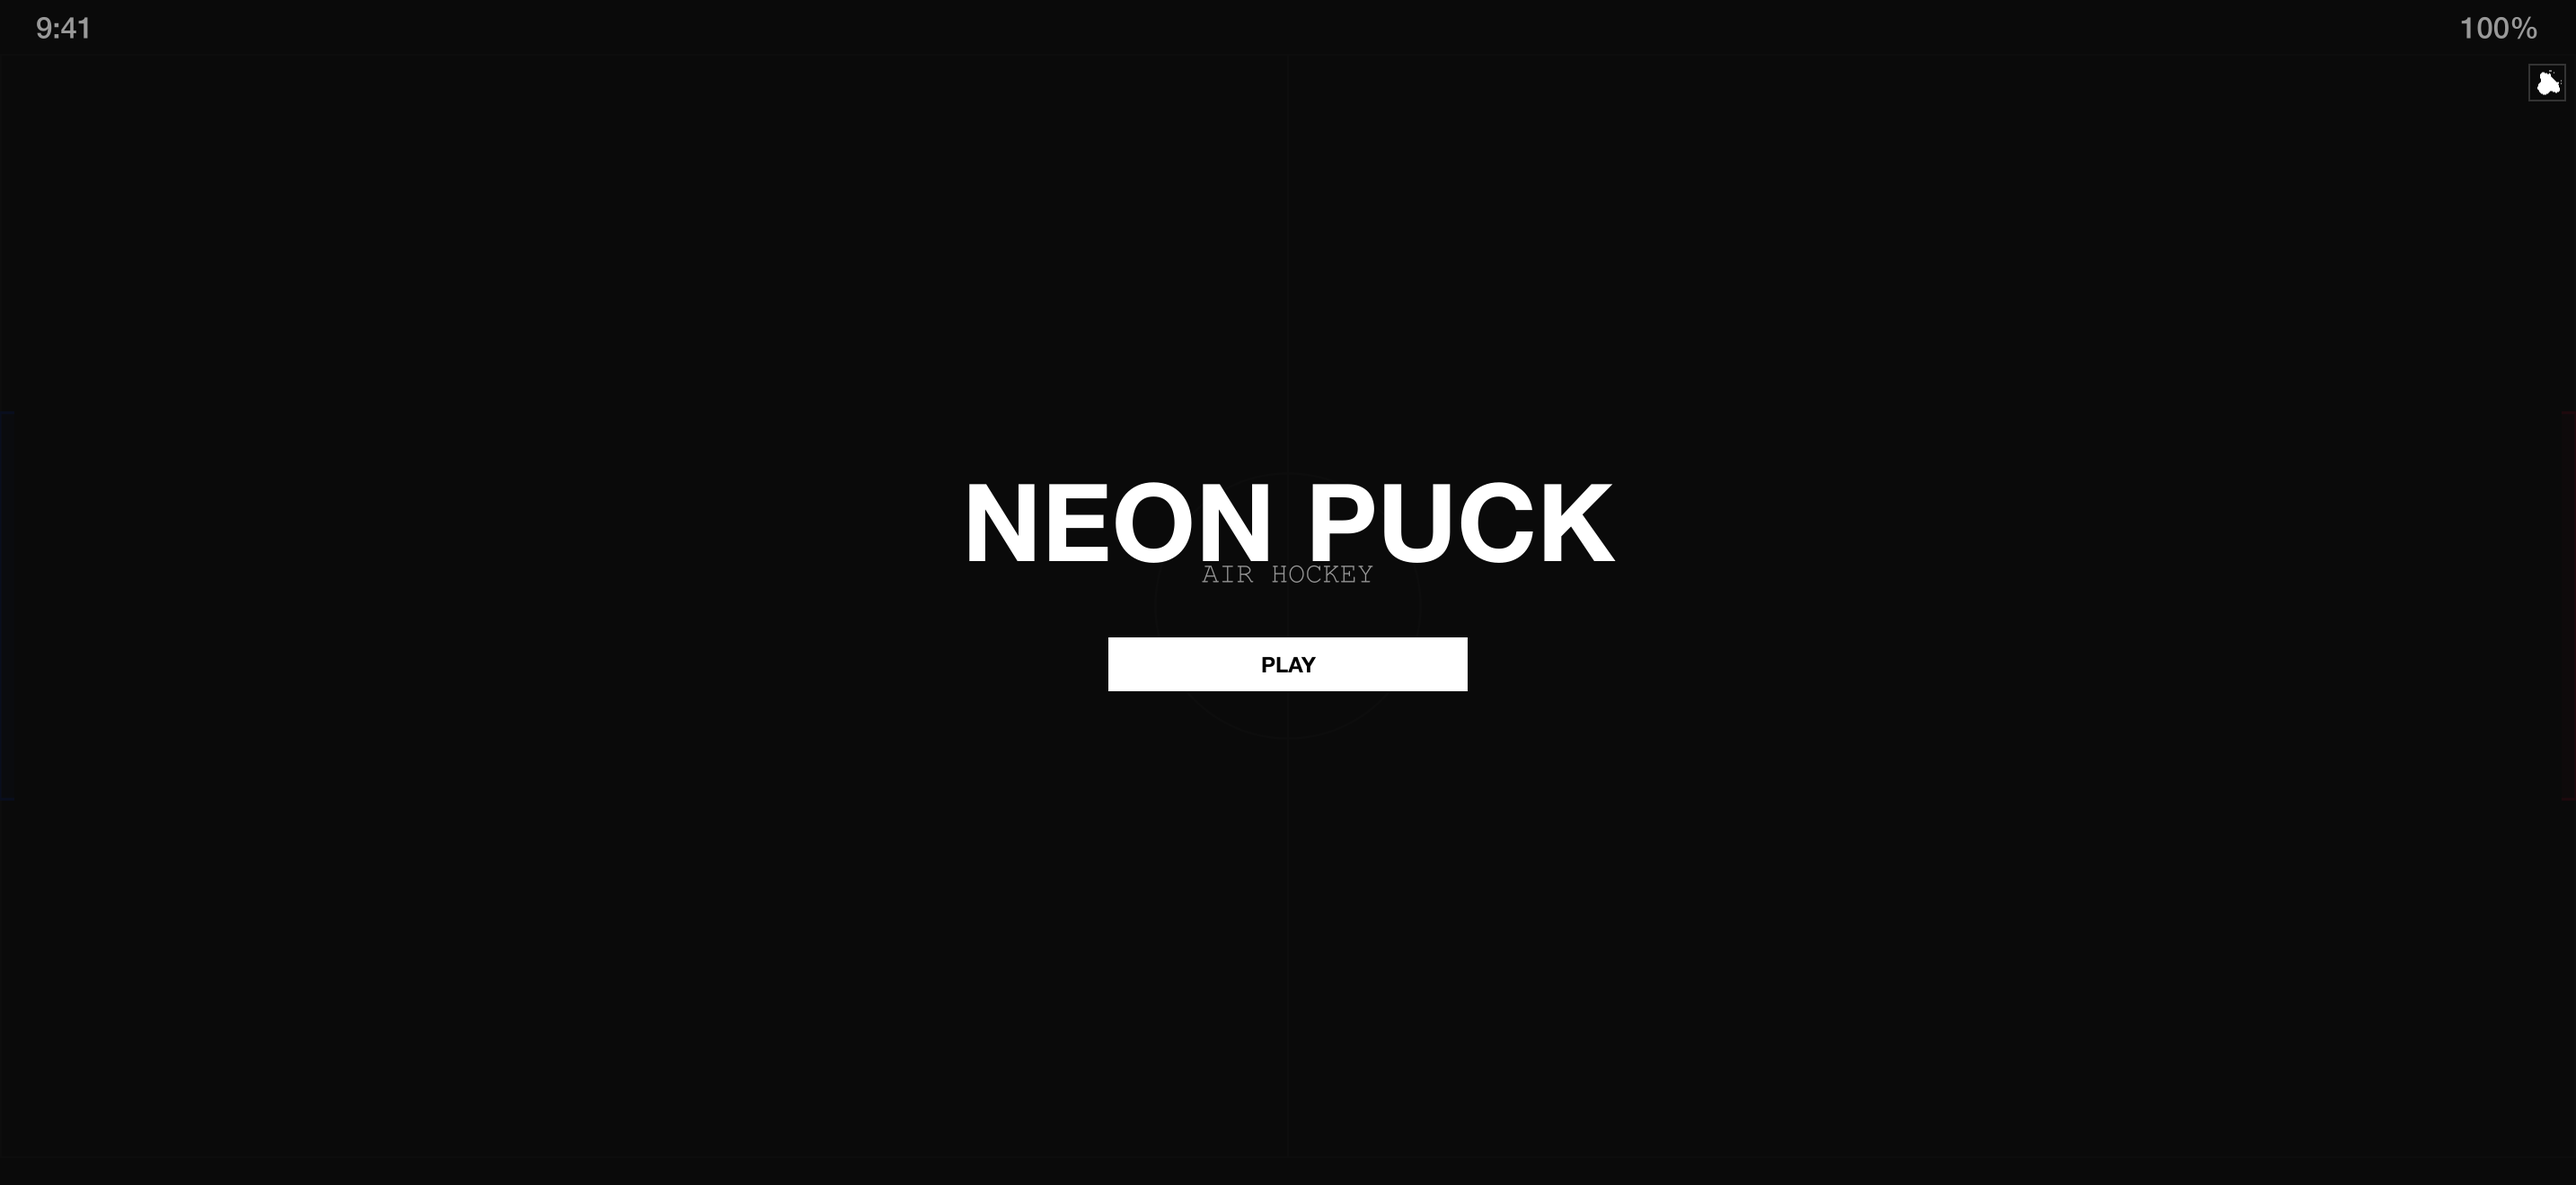
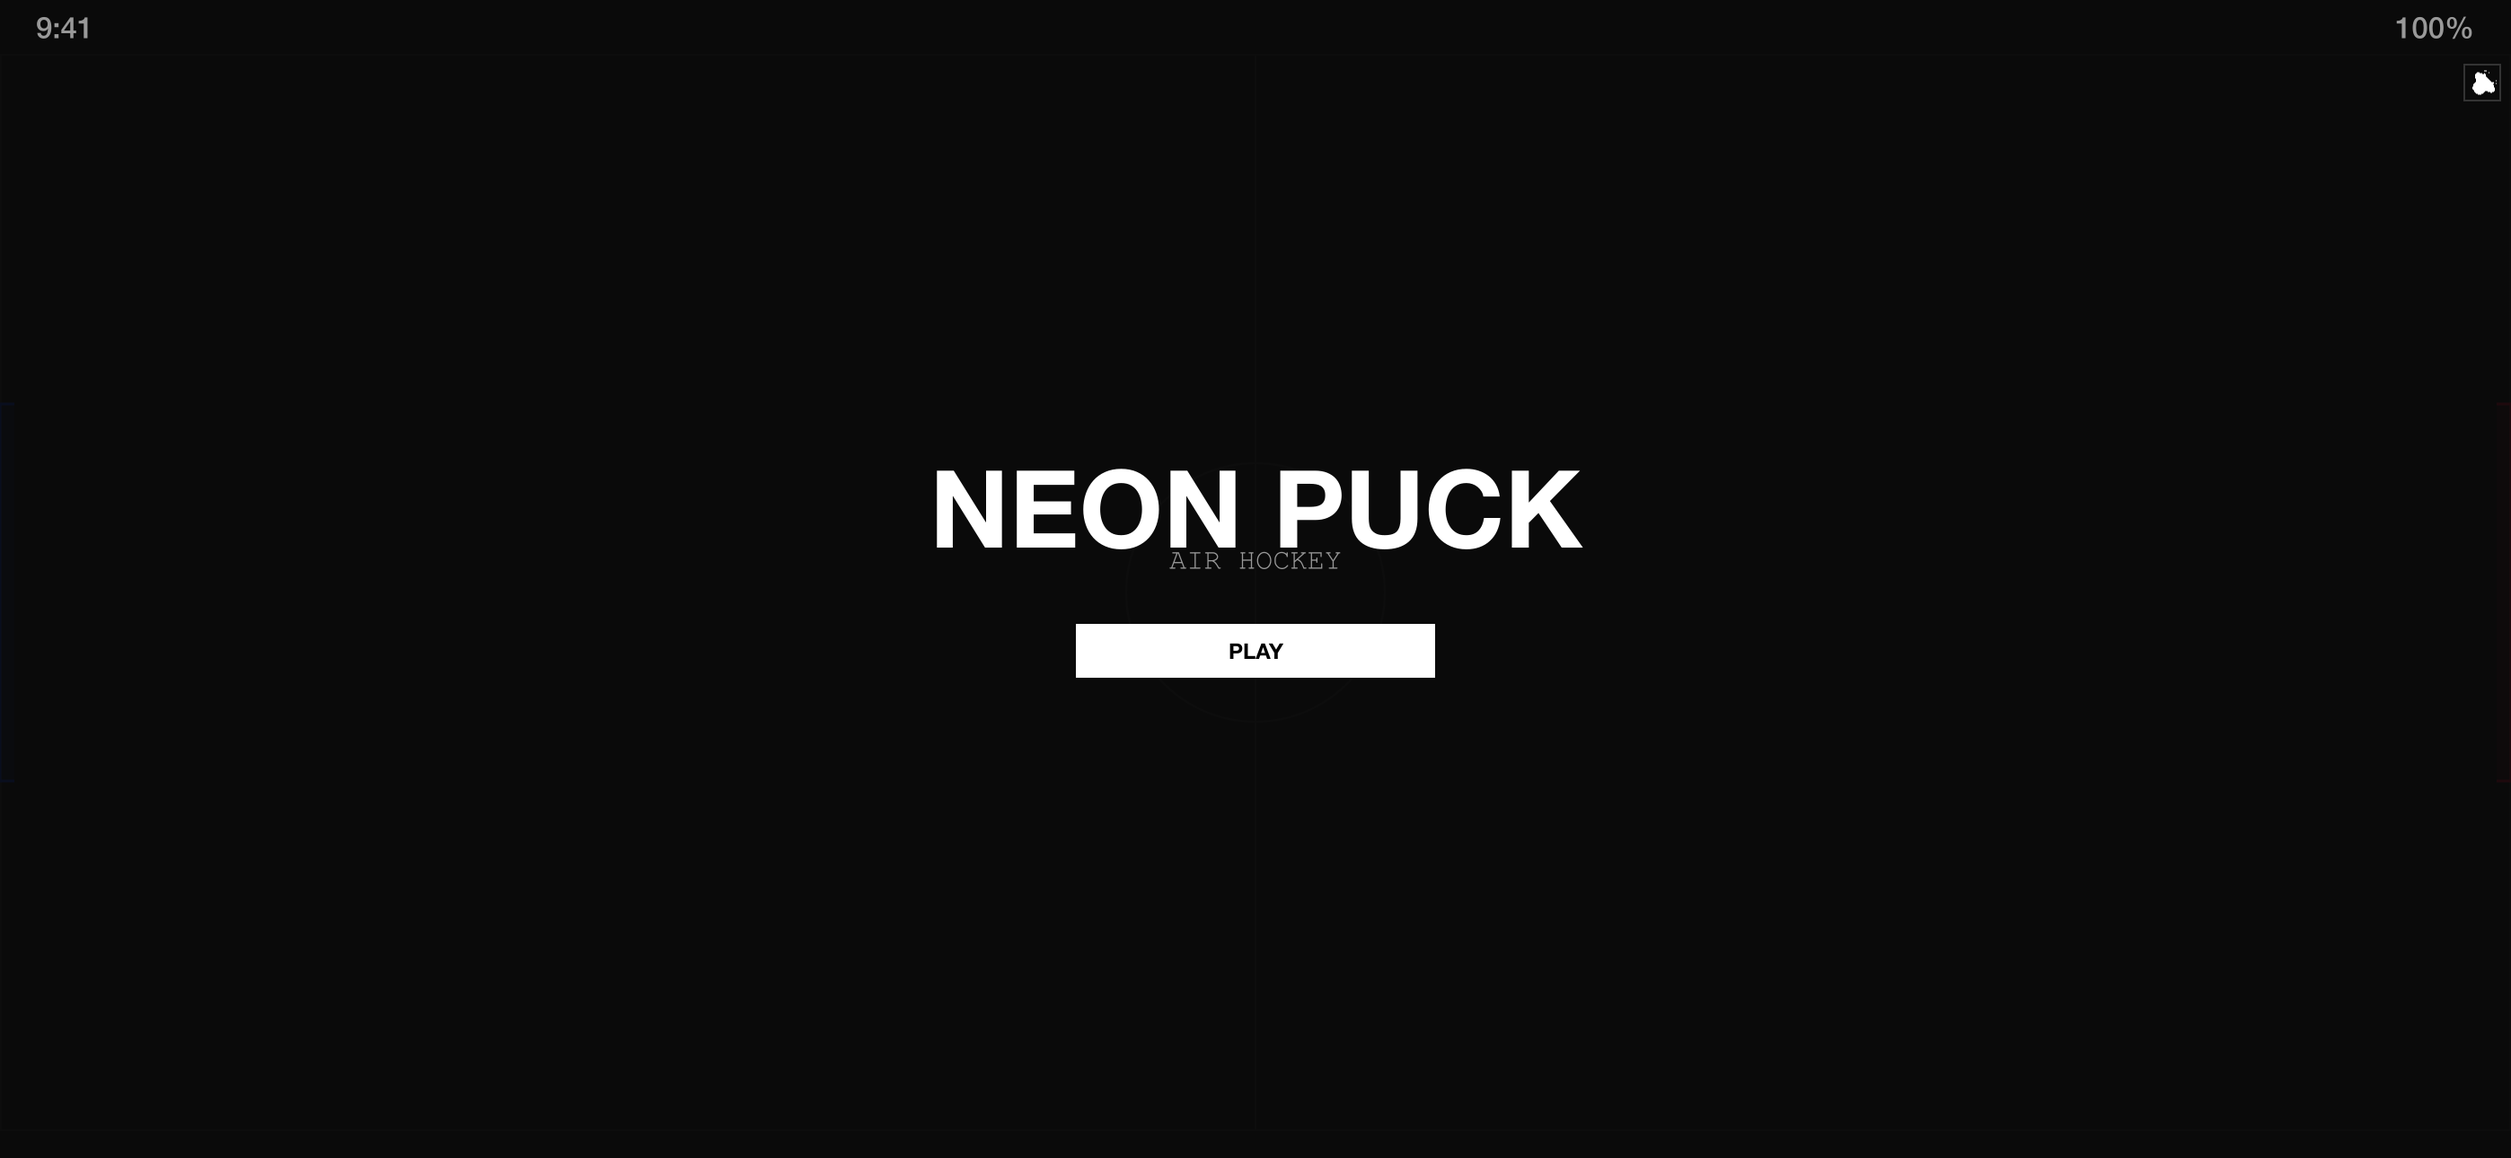
Fix iPhone screenshot size to 2796x1290 for 6.7" slot

diff --git a/generate-screenshots.js b/generate-screenshots.js
@@ -5,7 +5,7 @@ const fs = require('fs');
 
 // Device sizes (landscape)
 const DEVICES = {
-  iphone_67: { w: 2868, h: 1320, scale: 3, statusBar: 60, homeBar: 30 },
+  iphone_67: { w: 2796, h: 1290, scale: 3, statusBar: 60, homeBar: 30 },
   ipad_13:   { w: 2752, h: 2064, scale: 2, statusBar: 50, homeBar: 30 },
 };
 
